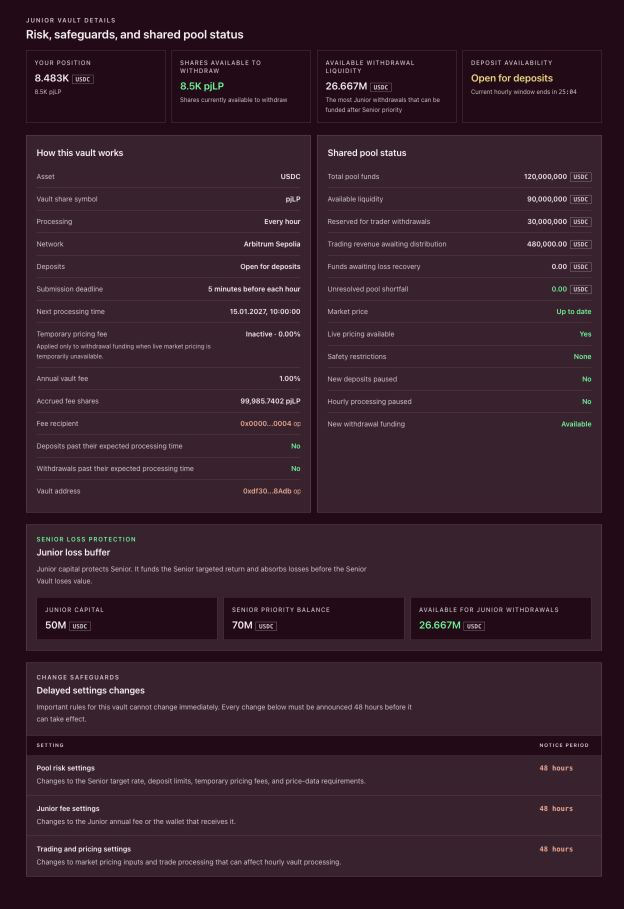
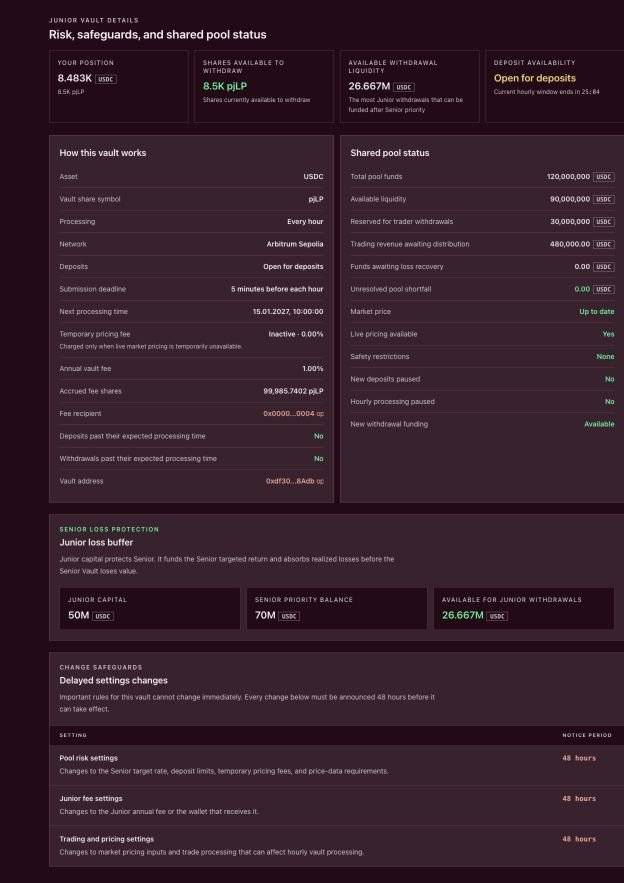
Limit Vault documentation changes to Storybook

Changed region(s): [[0.0304, 0.0612, 1.0, 1.0], [0.0304, 0.0, 0.4872, 0.1223], [0.7612, 0.0612, 0.9439, 0.1223]]

diff --git a/apps/frontend/src/pages/Vaults.tsx b/apps/frontend/src/pages/Vaults.tsx
@@ -47,10 +47,10 @@ import {
 import { dxyExposureFromContractNotional, formatPerpsUsdc } from '../utils/perps'
 import { calculatePerpsPoolCapital } from '../utils/perpsPoolCapital'
 
-export type TrancheId = 'senior' | 'junior'
+type TrancheId = 'senior' | 'junior'
 type DetailSectionId = 'overview' | 'performance' | 'position' | 'activity'
-export type ActionMode = 'deposit' | 'withdraw'
-export type DataStatus = 'live' | 'partial' | 'syncing' | 'unavailable'
+type ActionMode = 'deposit' | 'withdraw'
+type DataStatus = 'live' | 'partial' | 'syncing' | 'unavailable'
 
 type VaultRequestAction =
   | { kind: 'cancel-deposit'; requestId: bigint; assets: bigint }
@@ -97,7 +97,7 @@ function useStickyHeaderHeight() {
   return height
 }
 
-export interface TrancheDefinition {
+interface TrancheDefinition {
   id: TrancheId
   name: string
   token: string
@@ -146,7 +146,7 @@ const VAULT_GOVERNANCE_TIMELOCKS = [
   },
 ] as const
 
-export interface PoolSnapshot {
+interface PoolSnapshot {
   totalAssetsUsdc?: bigint
   freeUsdc?: bigint
   withdrawalReservedUsdc?: bigint
@@ -174,7 +174,7 @@ export interface PoolSnapshot {
   shortOpenCapacityUsdc?: bigint
 }
 
-export interface TrancheLiveData {
+interface TrancheLiveData {
   totalAssets?: bigint
   totalSupply?: bigint
   effectiveTotalSupply?: bigint
@@ -204,7 +204,7 @@ export interface TrancheLiveData {
   hasUserData: boolean
 }
 
-export interface VaultsSnapshot {
+interface VaultsSnapshot {
   status: DataStatus
   pool: PoolSnapshot
   walletUsdc?: bigint
@@ -213,14 +213,14 @@ export interface VaultsSnapshot {
   refresh: () => void
 }
 
-export interface VaultActivityViewState {
+interface VaultActivityViewState {
   holders: VaultHolderDistribution[]
   activity: VaultOverviewActivityItem[]
   isLoading: boolean
   isError: boolean
 }
 
-export interface VaultRequestsViewState {
+interface VaultRequestsViewState {
   depositRequests: VaultDepositRequest[]
   redeemRequests: VaultRedeemRequest[]
   isLoading: boolean
@@ -248,7 +248,7 @@ const TRANCHES: Record<TrancheId, TrancheDefinition> = {
     eyebrow: 'More protected option',
     shortDescription: 'A targeted return with first priority when withdrawal funds are allocated.',
     description:
-      'Senior gives up some upside for greater protection. It receives a targeted return funded by Junior, recovers prior losses before Junior receives residual LP-owned value, and takes losses only after Junior is exhausted.',
+      'Senior gives up some upside for greater protection. It receives a targeted return funded by Junior, recovers prior losses before Junior receives new earnings, and takes losses only after Junior is exhausted.',
     returnModel: 'Targeted return funded by Junior',
     lossPriority: 'Second loss, after Junior',
     withdrawalPriority: 'Senior withdrawals are funded before Junior',
@@ -263,11 +263,11 @@ const TRANCHES: Record<TrancheId, TrancheDefinition> = {
     featureItems: [
       {
         label: 'Loss order',
-        text: 'Junior absorbs losses before Senior',
+        text: 'Junior absorbs realized losses before Senior',
       },
       {
         label: 'Return',
-        text: 'Receives its targeted return when funds are available; prior losses are recovered before Junior receives residual LP-owned value',
+        text: 'Receives its targeted return when funds are available; prior losses are recovered before Junior receives new earnings',
       },
       {
         label: 'Withdrawals',
@@ -289,7 +289,7 @@ const TRANCHES: Record<TrancheId, TrancheDefinition> = {
     eyebrow: 'Higher-risk option',
     shortDescription: 'Takes losses first in exchange for more variable return potential.',
     description:
-      'Junior funds the Senior targeted return and absorbs losses from the shared trading pool first. In exchange, it receives residual LP-owned value after Senior priority, including the LP share of collected liquidation charges.',
+      'Junior funds the Senior targeted return and absorbs losses from the shared trading pool first. In exchange, it receives the trading earnings left after Senior is paid, including a share of fees from forced position closures.',
     returnModel: 'Variable return from trading activity',
     lossPriority: 'First loss',
     withdrawalPriority: 'Available after Senior withdrawals and the required safety buffer',
@@ -304,7 +304,7 @@ const TRANCHES: Record<TrancheId, TrancheDefinition> = {
     featureItems: [
       {
         label: 'Loss order',
-        text: 'Absorbs losses first, protecting Senior',
+        text: 'Absorbs realized losses first, protecting Senior',
       },
       {
         label: 'Return',
@@ -317,7 +317,7 @@ const TRANCHES: Record<TrancheId, TrancheDefinition> = {
     ],
     riskItems: [
       'Junior funds the Senior targeted return from its own capital.',
-      'Junior absorbs losses from the shared trading pool before Senior is affected.',
+      'Junior absorbs realized losses from the shared trading pool before Senior is affected.',
       'Junior withdrawals can be unavailable even while its shares still have value.',
       'A sufficiently large loss can wipe out the vault completely.',
     ],
@@ -1861,7 +1861,7 @@ function ActivityTypeLabel({ activity }: { activity: VaultOverviewActivityItem }
   )
 }
 
-export function VaultActivitySection({
+function VaultActivitySection({
   holders,
   activity,
   tranche,
@@ -2460,8 +2460,8 @@ export function OverviewTab({
                   <span className="block">Temporary pricing fee</span>
                   <span className="mt-1 block max-w-md text-xs leading-5 text-content-secondary">
                     {pool.oracleFrozen === true
-                      ? 'Applied only to withdrawal funding while live market pricing is unavailable. Wait for pricing to resume before withdrawing when possible.'
-                      : 'Applied only to withdrawal funding when live market pricing is temporarily unavailable.'}
+                      ? 'Active while live market pricing is unavailable. Wait for pricing to resume before withdrawing when possible.'
+                      : 'Charged only when live market pricing is temporarily unavailable.'}
                   </span>
                 </span>
               )}
@@ -2663,7 +2663,7 @@ export function OverviewTab({
             <h3 className="mt-1 text-lg font-semibold text-content-primary">Junior loss buffer</h3>
             <p className="mt-2 max-w-2xl text-sm leading-6 text-content-secondary">
               Junior capital protects Senior. It funds the Senior targeted return and absorbs
-              losses before the Senior Vault loses value.
+              realized losses before the Senior Vault loses value.
             </p>
           </div>
           <div className="mt-5 grid gap-3 sm:grid-cols-3">
@@ -3015,14 +3015,14 @@ function PerformanceTab({
               tranche.id === 'senior'
                 ? [
                     'Targeted returns funded by Junior capital',
-                    'Recovery of earlier losses from future reconciled LP-owned value',
-                    'Temporary withdrawal pricing fees retained by the vault, when active',
+                    'Recovery of earlier losses from future pool revenue',
+                    'Temporary pricing fees retained by the vault, when active',
                   ]
                 : [
-                    'Collectible marked and collected trader losses',
-                    'Collected carry and positive VPI paid to the HousePool',
-                    'The LP remainder of collected liquidation charges',
-                    'Residual reconciled LP-owned value after Senior priority',
+                    'Collected trader losses',
+                    'Trading fees paid for positions backed by vault funds',
+                    'Favorable price adjustments paid by traders to the pool',
+                    'Revenue remaining after Senior losses and targeted returns are covered',
                   ]
             ).map((item) => (
               <li key={item} className="flex gap-2 text-sm leading-6 text-content-secondary">
@@ -3288,7 +3288,7 @@ export function ActivityTab({
                   <div className="flex flex-col gap-4 border-t border-brand-border/20 pt-4 sm:flex-row sm:items-center sm:justify-between">
                     <p className="max-w-3xl text-sm leading-6 text-content-secondary">
                       {request.refundableAssets > 0n
-                        ? 'The processed batch quoted zero aggregate deposit shares, so its epoch was rejected. Return the held USDC to your wallet.'
+                        ? 'This deposit could not be completed. Return the held USDC to your wallet.'
                         : request.claimableShares > 0n
                           ? `Your deposit is active and already participates in vault performance. Moving the shares to your wallet starts or restarts a one-hour withdrawal cooldown for your entire ${tranche.name} position.`
                           : request.matured
@@ -3791,7 +3791,7 @@ function VaultRequestActionModal({
       case 'recover-deposit':
         return {
           title: 'Return this deposit?',
-          description: 'The processed batch quoted zero aggregate deposit shares, so its epoch was rejected. Return the refundable USDC held by the vault to your wallet.',
+          description: 'The deposit could not be completed. Return the refundable USDC held by the vault to your wallet.',
           amountLabel: 'USDC returned',
           amount: formatFullUsd(action.assets),
           confirmLabel: 'Return USDC',
@@ -4079,7 +4079,7 @@ export function VaultPreviewModal({
                 value={mode === 'deposit' ? depositMode : 'Processed hourly when USDC is available'}
               />
               <PreviewRow label="Expected processing" value={targetSettlement} />
-              {mode === 'withdraw' && oracleFrozen === true ? (
+              {oracleFrozen === true ? (
                 <PreviewRow label="Temporary pricing fee" value="May apply when processed" />
               ) : null}
             </div>
@@ -4553,17 +4553,15 @@ function VaultActionPanel({
                 valueClassName={performanceValueClassName(performance.apy7d)}
               />
             ) : null}
-            {mode === 'withdraw' ? (
-              <PreviewRow
-                label="Temporary pricing fee"
-                value={liveData.frozenLpFeeBps === undefined || snapshot.pool.oracleFrozen === undefined
-                  ? 'State unavailable'
-                  : snapshot.pool.oracleFrozen
-                    ? `${(Number(liveData.frozenLpFeeBps) / 100).toFixed(2)}% active`
-                    : 'Inactive'}
-                valueClassName={snapshot.pool.oracleFrozen === true ? 'text-brand-orange' : 'text-content-primary'}
-              />
-            ) : null}
+            <PreviewRow
+              label="Temporary pricing fee"
+              value={liveData.frozenLpFeeBps === undefined || snapshot.pool.oracleFrozen === undefined
+                ? 'State unavailable'
+                : snapshot.pool.oracleFrozen
+                  ? `${(Number(liveData.frozenLpFeeBps) / 100).toFixed(2)}% active`
+                  : 'Inactive'}
+              valueClassName={snapshot.pool.oracleFrozen === true ? 'text-brand-orange' : 'text-content-primary'}
+            />
           </div>
 
           {mode === 'deposit' && depositMode === 'Open for deposits' ? (
@@ -4594,9 +4592,8 @@ function VaultActionPanel({
                 <>
                   You can request a withdrawal in{' '}
                   <WithdrawalCooldownCountdown remainingSeconds={withdrawalCooldownRemaining} />.{' '}
-                  Moving processed shares to your wallet, cancelling a withdrawal, or returning a
-                  zero-value remainder restarts this one-hour cooldown for your entire {tranche.name}
-                  position.
+                  Receiving more {tranche.token} shares in your wallet restarts this one-hour cooldown
+                  for your entire {tranche.name} position.
                 </>
               ) : (
                 'None of your shares are currently available to withdraw.'
@@ -4609,9 +4606,9 @@ function VaultActionPanel({
             && liveData.frozenLpFeeBps !== undefined ? (
               <Alert variant="warning" title="Temporary withdrawal surcharge active">
                 A temporary {(Number(liveData.frozenLpFeeBps) / 100).toFixed(2)}% fee is active
-                because live market pricing is unavailable. Your request locks the quoted shares;
-                if the fee is still active when funding occurs, those shares produce less USDC.
-                Unless the withdrawal is urgent, wait for live pricing to return.
+                because live market pricing is unavailable. If it is still active when your
+                withdrawal is processed, more shares will be needed. Unless the withdrawal is
+                urgent, wait for live pricing to return.
               </Alert>
             ) : null}
 
@@ -4737,7 +4734,7 @@ interface VaultDetailProps {
   switchError?: string
 }
 
-export type VaultDetailViewProps = Omit<VaultDetailProps, 'ownerAddress'> & {
+type VaultDetailViewProps = Omit<VaultDetailProps, 'ownerAddress'> & {
   vaultActivity: VaultActivityViewState
   vaultRequests: VaultRequestsViewState
   epochCountdownSeconds?: number

diff --git a/apps/frontend/src/pages/Vaults.test.tsx b/apps/frontend/src/pages/Vaults.test.tsx
@@ -835,7 +835,7 @@ describe('Vaults page', () => {
 
     fireEvent.click(screen.getByRole('button', { name: 'withdraw' }))
     expect(screen.getByText('Withdrawal cooldown active')).toBeInTheDocument()
-    expect(screen.getByText(/Moving processed shares to your wallet, cancelling a withdrawal, or returning a zero-value remainder restarts this one-hour cooldown/i))
+    expect(screen.getByText(/Receiving more psLP shares in your wallet restarts this one-hour cooldown/i))
       .toBeInTheDocument()
   })
 
@@ -911,7 +911,7 @@ describe('Vaults page', () => {
     expect(screen.getByText(/fresh live price is published/i)).toBeInTheDocument()
     expect(screen.queryByText(/not accepting new funded deposit requests/i)).not.toBeInTheDocument()
     expect(screen.queryByText(/current pool or vault safety state/i)).not.toBeInTheDocument()
-    expect(screen.getAllByText('0.25% active')).toHaveLength(1)
+    expect(screen.getAllByText('0.25% active')).toHaveLength(2)
     screen.getAllByText('0.25% active').forEach((value) => {
       expect(value).toHaveClass('text-brand-orange')
     })
@@ -919,7 +919,7 @@ describe('Vaults page', () => {
 
     fireEvent.click(screen.getByRole('button', { name: /withdraw/i }))
     expect(screen.getByText('Temporary withdrawal surcharge active')).toBeInTheDocument()
-    expect(screen.getByText(/your request locks the quoted shares; if the fee is still active when funding occurs, those shares produce less USDC/i)).toBeInTheDocument()
+    expect(screen.getByText(/when your withdrawal is processed, more shares will be needed/i)).toBeInTheDocument()
     expect(screen.getByText(/wait for live pricing to return/i)).toBeInTheDocument()
   })
 

diff --git a/apps/frontend/src/stories/VaultsDocumentation.stories.tsx b/apps/frontend/src/stories/VaultsDocumentation.stories.tsx
@@ -8,10 +8,13 @@ import {
   VaultPreviewModal,
   VaultsOverview,
   VAULT_TRANCHES,
-  type VaultActivityViewState,
-  type VaultRequestsViewState,
-  type VaultsSnapshot,
 } from '../pages/Vaults'
+
+type VaultsOverviewProps = Parameters<typeof VaultsOverview>[0]
+type VaultDetailViewProps = Parameters<typeof VaultDetailView>[0]
+type VaultsSnapshot = VaultsOverviewProps['snapshot']
+type VaultActivityViewState = VaultDetailViewProps['vaultActivity']
+type VaultRequestsViewState = VaultDetailViewProps['vaultRequests']
 
 const USDC = 1_000_000n
 const SHARES = 1_000_000_000n
